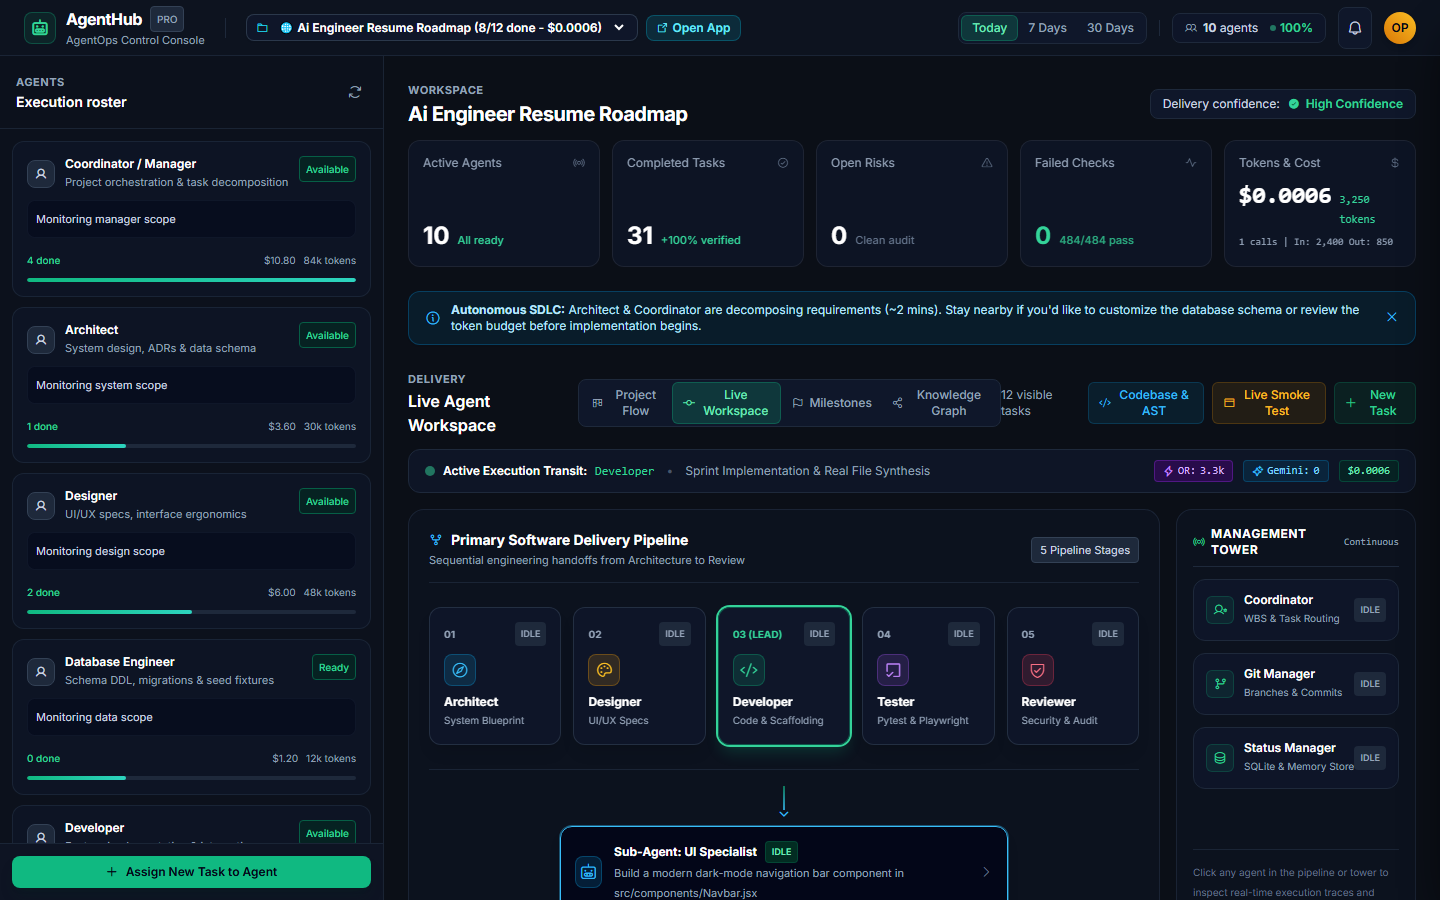
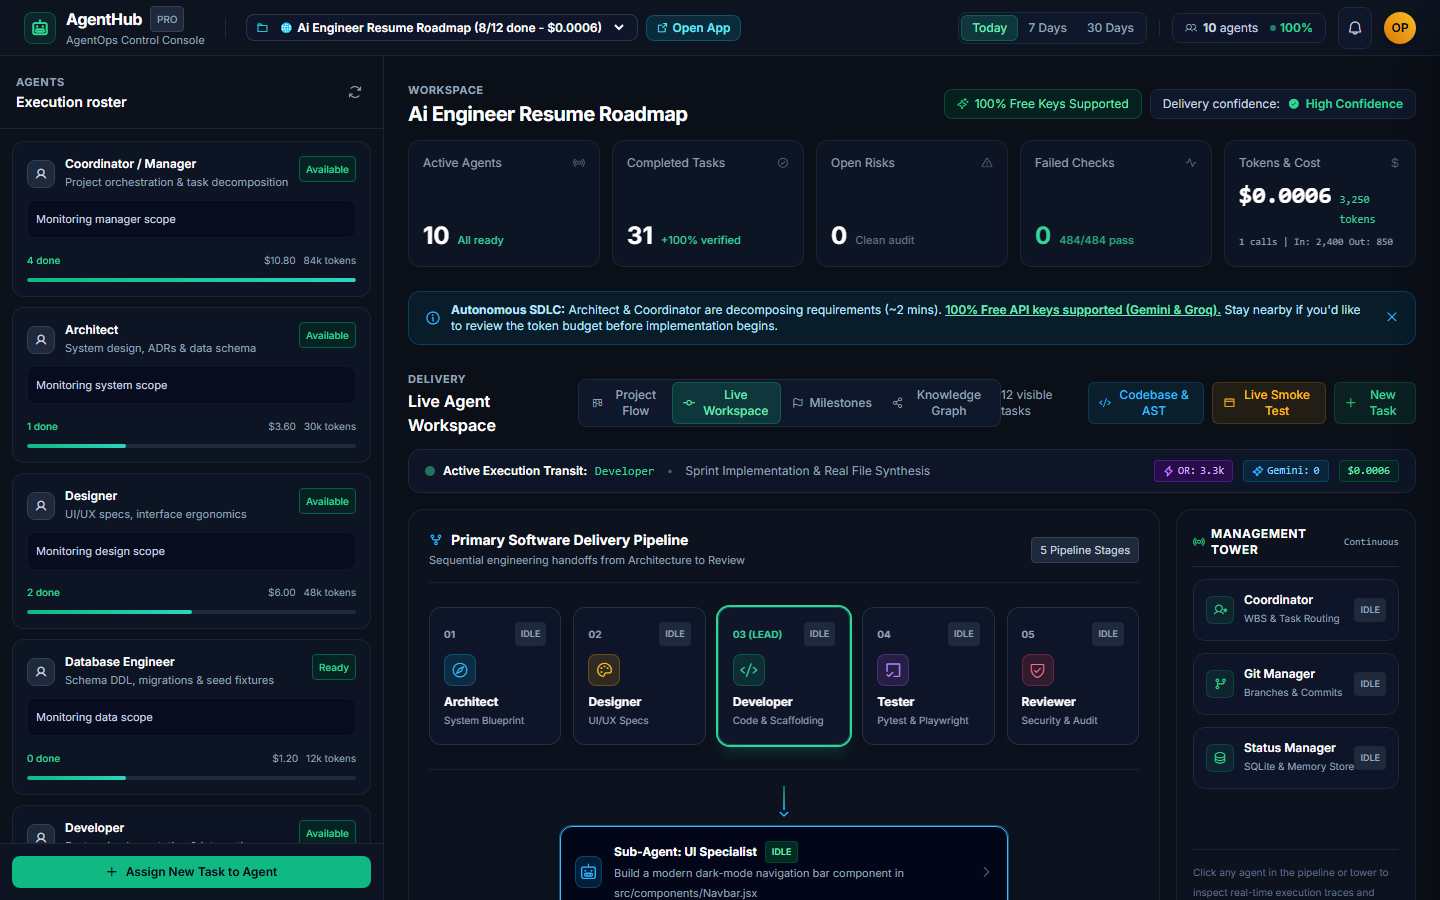
docs(keys): highlight supported keys with 100% free tier options across README, .env.example, agent guides, and Web Console

Changed region(s): [[0.6562, 0.3422, 0.9375, 0.3733], [0.3125, 0.3422, 0.5312, 0.3733], [0.6562, 0.0933, 0.7812, 0.1244]]

diff --git a/ui/index.html b/ui/index.html
@@ -151,11 +151,17 @@
             <div class="text-[11px] font-bold text-slate-400 tracking-wider uppercase">WORKSPACE</div>
             <h1 class="text-xl font-bold text-white tracking-tight" id="workspaceNameTitle">Persistent CrewAI SDLC</h1>
           </div>
-          <div class="flex items-center gap-2 text-xs bg-slate-900 border border-slate-800 px-3 py-1.5 rounded-lg text-slate-300">
-            <span>Delivery confidence:</span>
-            <span class="text-emerald-400 font-semibold flex items-center gap-1.5">
-              <i class="ph-fill ph-check-circle text-emerald-400"></i> High Confidence
-            </span>
+          <div class="flex items-center gap-2">
+            <button onclick="openKeyHelpModal()" class="flex items-center gap-1.5 text-xs bg-emerald-950/60 border border-emerald-700/50 hover:border-emerald-500 px-3 py-1.5 rounded-lg text-emerald-300 transition-colors shadow-sm cursor-pointer" title="View supported free API keys">
+              <i class="ph ph-sparkle text-emerald-400"></i>
+              <span>100% Free Keys Supported</span>
+            </button>
+            <div class="flex items-center gap-2 text-xs bg-slate-900 border border-slate-800 px-3 py-1.5 rounded-lg text-slate-300">
+              <span>Delivery confidence:</span>
+              <span class="text-emerald-400 font-semibold flex items-center gap-1.5">
+                <i class="ph-fill ph-check-circle text-emerald-400"></i> High Confidence
+              </span>
+            </div>
           </div>
         </div>
 
@@ -232,7 +238,7 @@
       <div id="bannerUpfrontStatus" class="mb-3 px-4 py-2.5 bg-sky-950/40 border border-sky-800/60 rounded-xl text-xs flex items-center justify-between text-sky-200 shadow-sm">
         <div class="flex items-center gap-2.5">
           <i class="ph ph-info text-sky-400 text-base shrink-0"></i>
-          <span><strong>Autonomous SDLC:</strong> Architect &amp; Coordinator are decomposing requirements (~2 mins). Stay nearby if you'd like to customize the database schema or review the token budget before implementation begins.</span>
+          <span><strong>Autonomous SDLC:</strong> Architect &amp; Coordinator are decomposing requirements (~2 mins). <a href="javascript:void(0)" onclick="openKeyHelpModal()" class="underline text-emerald-300 hover:text-emerald-200 font-semibold">100% Free API keys supported (Gemini &amp; Groq).</a> Stay nearby if you'd like to review the token budget before implementation begins.</span>
         </div>
         <button onclick="document.getElementById('bannerUpfrontStatus').style.display='none'" class="text-sky-400 hover:text-white ml-3 text-sm" title="Dismiss">
           <i class="ph ph-x"></i>
@@ -779,6 +785,85 @@
     </div>
   </div>
 
+  <!-- SUPPORTED KEYS & 100% FREE OPTIONS MODAL -->
+  <div id="modalKeyHelp" class="fixed inset-0 bg-black/70 backdrop-blur-sm z-50 hidden flex items-center justify-center p-4">
+    <div class="bg-slate-900 border border-slate-800 rounded-2xl w-full max-w-xl p-6 shadow-2xl flex flex-col space-y-4">
+      <div class="flex items-center justify-between border-b border-slate-800 pb-3">
+        <div class="flex items-center gap-2.5">
+          <div class="w-8 h-8 rounded-lg bg-emerald-500/15 border border-emerald-500/30 flex items-center justify-center text-emerald-400">
+            <i class="ph ph-key text-lg"></i>
+          </div>
+          <div>
+            <h3 class="font-bold text-white text-base">Supported LLM Keys & Free Tier Options</h3>
+            <p class="text-xs text-slate-400">Configure any one of these keys in your <code class="text-emerald-400">.env</code> file</p>
+          </div>
+        </div>
+        <button onclick="closeKeyHelpModal()" class="text-slate-400 hover:text-white p-1 rounded-lg hover:bg-slate-800">
+          <i class="ph ph-x text-lg"></i>
+        </button>
+      </div>
+
+      <div class="space-y-3 max-h-[60vh] overflow-y-auto pr-1 text-xs">
+        <!-- Gemini Card -->
+        <div class="p-3 bg-slate-950/60 rounded-xl border border-slate-800 flex items-start justify-between gap-3">
+          <div>
+            <div class="flex items-center gap-2">
+              <span class="font-bold text-white text-sm">Google Gemini</span>
+              <span class="px-2 py-0.5 rounded-full bg-emerald-500/20 text-emerald-300 font-semibold text-[10px]">100% FREE</span>
+            </div>
+            <p class="text-slate-400 mt-1">Generous free tier (15 RPM / 1M TPM). Ideal for Coordinator, Architect, and Database modeling.</p>
+            <code class="text-sky-300 text-[11px] block mt-1">GEMINI_API_KEY=...</code>
+          </div>
+          <a href="https://aistudio.google.com/app/api-keys" target="_blank" class="px-2.5 py-1.5 bg-emerald-600/30 hover:bg-emerald-600/50 border border-emerald-500/50 text-emerald-200 rounded-lg shrink-0 font-medium text-[11px]">Get Free Key</a>
+        </div>
+
+        <!-- Groq Card -->
+        <div class="p-3 bg-slate-950/60 rounded-xl border border-slate-800 flex items-start justify-between gap-3">
+          <div>
+            <div class="flex items-center gap-2">
+              <span class="font-bold text-white text-sm">Groq Cloud</span>
+              <span class="px-2 py-0.5 rounded-full bg-emerald-500/20 text-emerald-300 font-semibold text-[10px]">100% FREE</span>
+            </div>
+            <p class="text-slate-400 mt-1">Ultra-fast sub-second Llama-3.3 70B & 8B inference for Developer, QA, and Security auditing.</p>
+            <code class="text-sky-300 text-[11px] block mt-1">GROQ_API_KEY=...</code>
+          </div>
+          <a href="https://console.groq.com/keys" target="_blank" class="px-2.5 py-1.5 bg-emerald-600/30 hover:bg-emerald-600/50 border border-emerald-500/50 text-emerald-200 rounded-lg shrink-0 font-medium text-[11px]">Get Free Key</a>
+        </div>
+
+        <!-- OpenRouter Card -->
+        <div class="p-3 bg-slate-950/60 rounded-xl border border-slate-800 flex items-start justify-between gap-3">
+          <div>
+            <div class="flex items-center gap-2">
+              <span class="font-bold text-white text-sm">OpenRouter</span>
+              <span class="px-2 py-0.5 rounded-full bg-sky-500/20 text-sky-300 font-semibold text-[10px]">Free & Low Cost</span>
+            </div>
+            <p class="text-slate-400 mt-1">Deep coding reasoning with Qwen 2.5 Coder, DeepSeek R1/V3, or Claude 3.5 Sonnet.</p>
+            <code class="text-sky-300 text-[11px] block mt-1">OPENROUTER_API_KEY=...</code>
+          </div>
+          <a href="https://openrouter.ai/keys" target="_blank" class="px-2.5 py-1.5 bg-sky-600/30 hover:bg-sky-600/50 border border-sky-500/50 text-sky-200 rounded-lg shrink-0 font-medium text-[11px]">Get Key</a>
+        </div>
+
+        <!-- Local Ollama Card -->
+        <div class="p-3 bg-slate-950/60 rounded-xl border border-slate-800 flex items-start justify-between gap-3">
+          <div>
+            <div class="flex items-center gap-2">
+              <span class="font-bold text-white text-sm">Local Ollama</span>
+              <span class="px-2 py-0.5 rounded-full bg-purple-500/20 text-purple-300 font-semibold text-[10px]">100% Offline & Free</span>
+            </div>
+            <p class="text-slate-400 mt-1">Run local models (Llama 3, CodeLlama) completely on your own GPU/CPU without sending data to the cloud.</p>
+            <code class="text-sky-300 text-[11px] block mt-1">OLLAMA_BASE_URL=http://localhost:11434</code>
+          </div>
+          <a href="https://ollama.ai" target="_blank" class="px-2.5 py-1.5 bg-purple-600/30 hover:bg-purple-600/50 border border-purple-500/50 text-purple-200 rounded-lg shrink-0 font-medium text-[11px]">Download</a>
+        </div>
+      </div>
+
+      <div class="pt-3 border-t border-slate-800 flex items-center justify-between text-xs text-slate-400">
+        <span>💡 You only need <strong>one key</strong> to start running live!</span>
+        <button onclick="closeKeyHelpModal()" class="px-4 py-2 bg-slate-800 hover:bg-slate-700 text-white rounded-lg font-medium transition-colors">Close</button>
+      </div>
+    </div>
+  </div>
+
   <!-- JAVASCRIPT APP LOGIC -->
   <script>
     let currentAgent = null;
@@ -1081,6 +1166,16 @@
 
     function closeTaskOutputModal() {
       document.getElementById('taskOutputModal').classList.add('hidden');
+    }
+
+    function openKeyHelpModal() {
+      const modal = document.getElementById('modalKeyHelp');
+      if (modal) modal.classList.remove('hidden');
+    }
+
+    function closeKeyHelpModal() {
+      const modal = document.getElementById('modalKeyHelp');
+      if (modal) modal.classList.add('hidden');
     }
 
     async function runTaskCard(taskId) {

diff --git a/README.md b/README.md
@@ -30,7 +30,8 @@ source .venv/bin/activate
 pip install -r requirements.txt
 ```
 
-### 2. Configure Your API Keys
+### 2. Configure Your API Keys (100% Free Options Available)
+
 Copy the provided environment template:
 ```bash
 # Windows:
@@ -38,12 +39,20 @@ copy .env.example .env
 # macOS / Linux:
 cp .env.example .env
 ```
-Open `.env` in any editor and paste your API key(s):
-- **Google Gemini** (Recommended for fast routing & planning): Get a key at [Google AI Studio](https://aistudio.google.com/app/api-keys).
-- **OpenRouter** (Recommended for deep code reasoning): Get a key at [OpenRouter](https://openrouter.ai/keys).
-- *(Optional)* **Groq** / **NVIDIA NIM** for ultra-fast failovers.
 
-> 💡 **Deterministic Offline Mode**: If no API keys are provided, the entire framework operates in 100% deterministic offline mock mode with built-in verification tests.
+You only need **ONE** active key to run live! The framework works with free options:
+
+| Provider | Supported Key | Tier / Cost | Get Free Key | Best For Roles |
+| :--- | :--- | :---: | :--- | :--- |
+| **Google Gemini** | `GEMINI_API_KEY` | 🟢 **100% FREE** | [Google AI Studio](https://aistudio.google.com/app/api-keys) | Coordinator, Architect, DB Engineer |
+| **Groq Cloud** | `GROQ_API_KEY` | 🟢 **100% FREE** | [Groq Console](https://console.groq.com/keys) | Ultra-fast Developer, QA & Security Auditor |
+| **OpenRouter** | `OPENROUTER_API_KEY` | 🟢 **Free & Low-Cost** | [OpenRouter Keys](https://openrouter.ai/keys) | Deep coding (Qwen 2.5 Coder, DeepSeek R1) |
+| **Ollama (Local)** | `OLLAMA_BASE_URL` | 🟢 **100% FREE** | [Ollama.ai](https://ollama.ai) | 100% private on-device LLMs (No key needed) |
+| **NVIDIA NIM** | `NVIDIA_API_KEY` | 🟢 **Free Trial** | [NVIDIA Build](https://build.nvidia.com/) | High-speed Llama 3 models |
+| **OpenAI** | `OPENAI_API_KEY` | 💳 Paid Standard | [OpenAI Platform](https://platform.openai.com/api-keys) | GPT-4o, GPT-4o-mini |
+| **Deterministic Mock** | `--mock` flag | 🟢 **Zero Keys** | Built-in | 100% offline testing, CI, and free exploration |
+
+> 💡 **Tip:** Both **Google Gemini** and **Groq** provide generous **100% free tiers** with zero credit card required. If you want to test the full pipeline without spending any money, paste a free key from either provider into `.env`!
 
 ### 3. Launch the Web Control Console
 ```bash

diff --git a/AGENTS.md b/AGENTS.md
@@ -11,8 +11,15 @@
    - Look in the workspace root for `.env`.
    - If `.env` is **missing** or contains no keys:
      > **Prompt the user immediately:**  
-     > *"Welcome to Persistent CrewAI! Before we can run real autonomous builds, please create a `.env` file from `.env.example` and supply your API key(s). Supported providers: `GEMINI_API_KEY`, `GROQ_API_KEY`, `OPENROUTER_API_KEY`, `OPENAI_API_KEY`, or `NVIDIA_API_KEY`.  
-     > (If you want to run offline tests or explore the interface without spending tokens, let me know and I can run in deterministic `--mock` mode)."*
+     > *"Welcome to Persistent CrewAI! Before we can run real autonomous builds, please configure at least one API key in `.env` (copied from `.env.example`).*  
+     >  
+     > *🟢 **100% Free Keys Available (No Credit Card Required):**  
+     > - **Google Gemini** (`GEMINI_API_KEY`): Free key at https://aistudio.google.com/app/api-keys  
+     > - **Groq Cloud** (`GROQ_API_KEY`): Free ultra-fast Llama 3 at https://console.groq.com/keys  
+     > - **Local Ollama** (`OLLAMA_BASE_URL`): Free local offline models at http://localhost:11434  
+     > - **OpenRouter** (`OPENROUTER_API_KEY`): Free & low-cost models at https://openrouter.ai/keys  
+     >  
+     > (If you want to test offline for free without any keys at all, tell me to run with the `--mock` flag)."*
    - **DO NOT** attempt a live build without an API key, as runtime execution will halt with a `RuntimeError`.
 
 2. **Verify Python Environment:**

diff --git a/CLAUDE.md b/CLAUDE.md
@@ -7,7 +7,12 @@ Welcome Claude! You are orchestrating the **Persistent CrewAI 10-Role Software E
 ## 🚨 MANDATORY STEP 0: API KEY & ENVIRONMENT CHECK
 Before executing any build, check if `.env` exists in the project root:
 - If `.env` is **missing** or has no keys, politely stop and prompt the user:
-  > *"Before we run autonomous builds, please set up your `.env` file with your API keys (e.g. `GEMINI_API_KEY`, `GROQ_API_KEY`, or `OPENROUTER_API_KEY`). If you prefer to test offline for free, ask me to run with the `--mock` flag."*
+  > *"Before we run autonomous builds, please configure at least one API key in `.env` (copied from `.env.example`).*  
+  > *🟢 **100% Free Keys Available:**  
+  > - **Google Gemini** (`GEMINI_API_KEY`): https://aistudio.google.com/app/api-keys  
+  > - **Groq Cloud** (`GROQ_API_KEY`): https://console.groq.com/keys  
+  > - **Ollama** (`OLLAMA_BASE_URL`): Local & offline at http://localhost:11434  
+  > (If you want to test offline for free without any keys, tell me to run with `--mock`)."*
 
 ---
 
